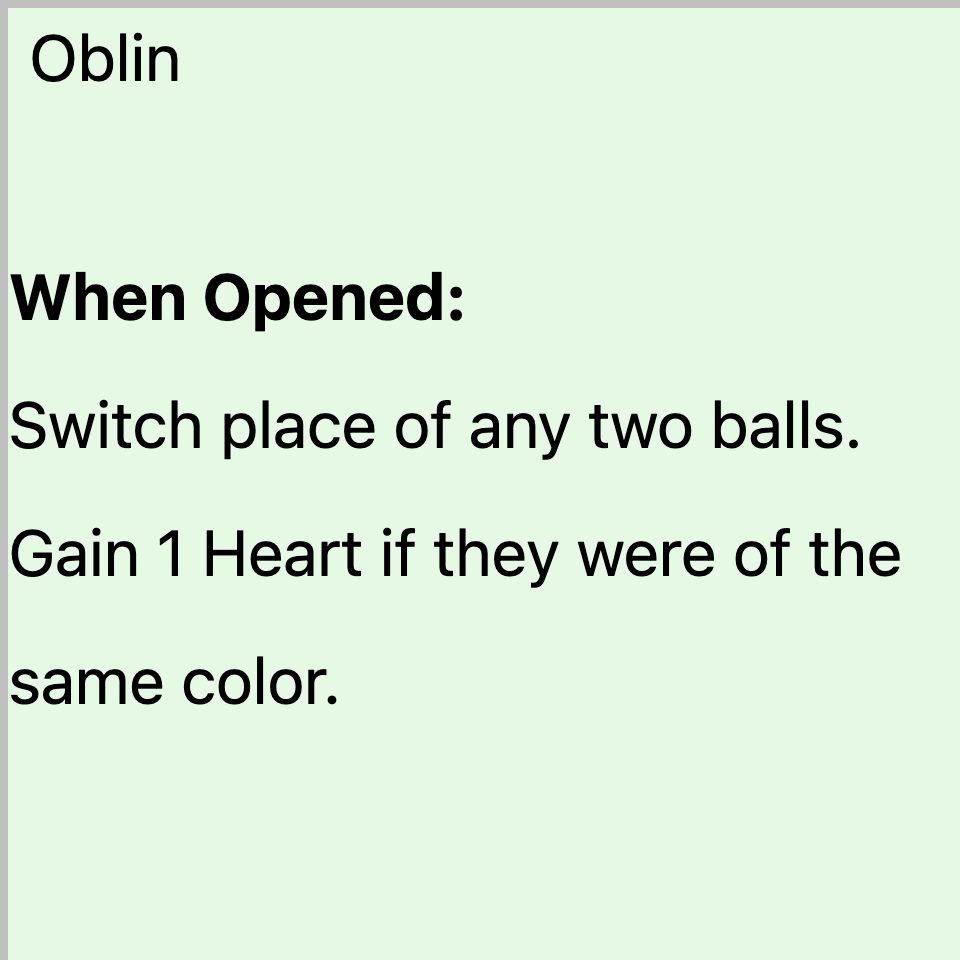
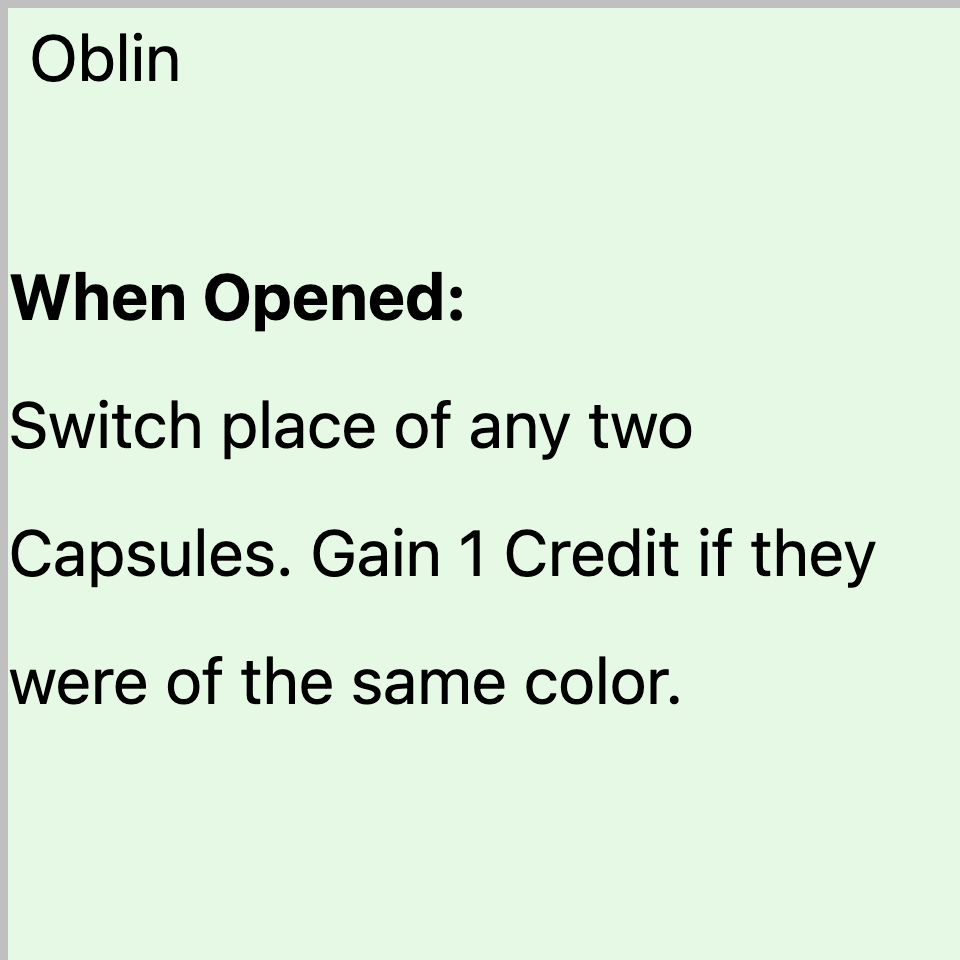
new version

Changed region(s): [[0.0312, 0.5312, 0.9375, 0.625], [0.0, 0.6875, 0.6875, 0.75], [0.7188, 0.4062, 0.9062, 0.4688]]

diff --git a/card_ball.html b/card_ball.html
@@ -138,6 +138,7 @@
 </head>
 
 {% set colors = {
+    "White": "255,255,255",
     "Yellow": "255,255,0",
     "Blue": "0,0,255",
     "Black": "0,0,0",

diff --git a/render_cards.py b/render_cards.py
@@ -45,12 +45,9 @@ from PIL import Image
 # You can change these paths if you keep templates elsewhere.
 CARD_SHEETS: Dict[str, Dict] = {
     # sheet_name: { "outputs": [(card_type_name, template_path, filename_prefix), ...] }
-    "Lanes": {"outputs": [("lane", "card_basic.html", "")]},
-    "Combolas": {"outputs": [("combola", "card_basic.html", "")]},
-    "Balls": {"outputs": [("ball", "card_ball.html", "")]},
-    "Stamps": {"outputs": [("resource", "card_basic.html", "")]},
-    "Trials": {"outputs": [("trial", "card_basic.html", "")]},
-    "Judgement": {"outputs": [("judgement", "card_basic.html", "")]},
+    "Capsules": {"outputs": [("capsule", "card_ball.html", "")]},
+    "Tokens": {"outputs": [("token", "card_basic.html", "")]},
+    "Bombs": {"outputs": [("bomb", "card_basic.html", "")]},
 }
 
 # -----------------------
@@ -380,6 +377,8 @@ def create_pcio_decks(
             df["Requirements"] = ""
         if "Cost" not in df.columns:
             df["Cost"] = ""
+        if "Color" not in df.columns:
+            df["Color"] = "White"
 
         if "Deck" not in df.columns:
             continue
@@ -402,7 +401,7 @@ def create_pcio_decks(
             record = {
                 "label": name_slug,
                 "Deck": deck_slug,
-                "image": f"https://raw.githubusercontent.com/EmilRosen/ballers/refs/heads/main/cards/{deck_slug}/{name_slug}.png",
+                "image": f"https://raw.githubusercontent.com/EmilRosen/ballers/refs/heads/dev/cards/{deck_slug}/{name_slug}.png",
                 "item-count": row.get("Copies"),
                 "item-key": name_slug,
             }
